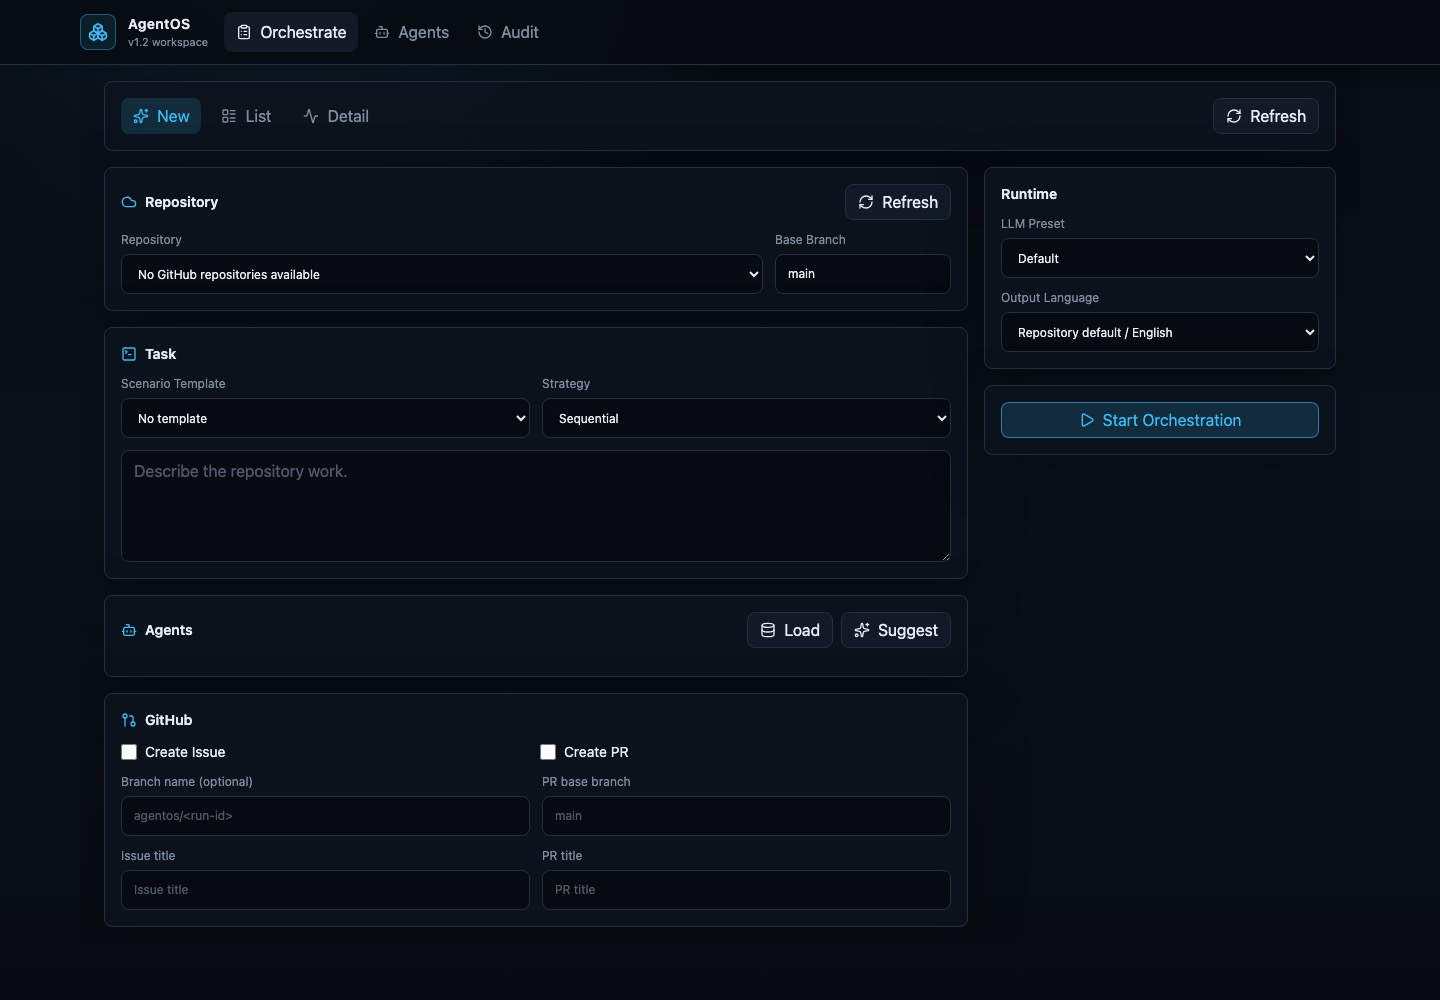
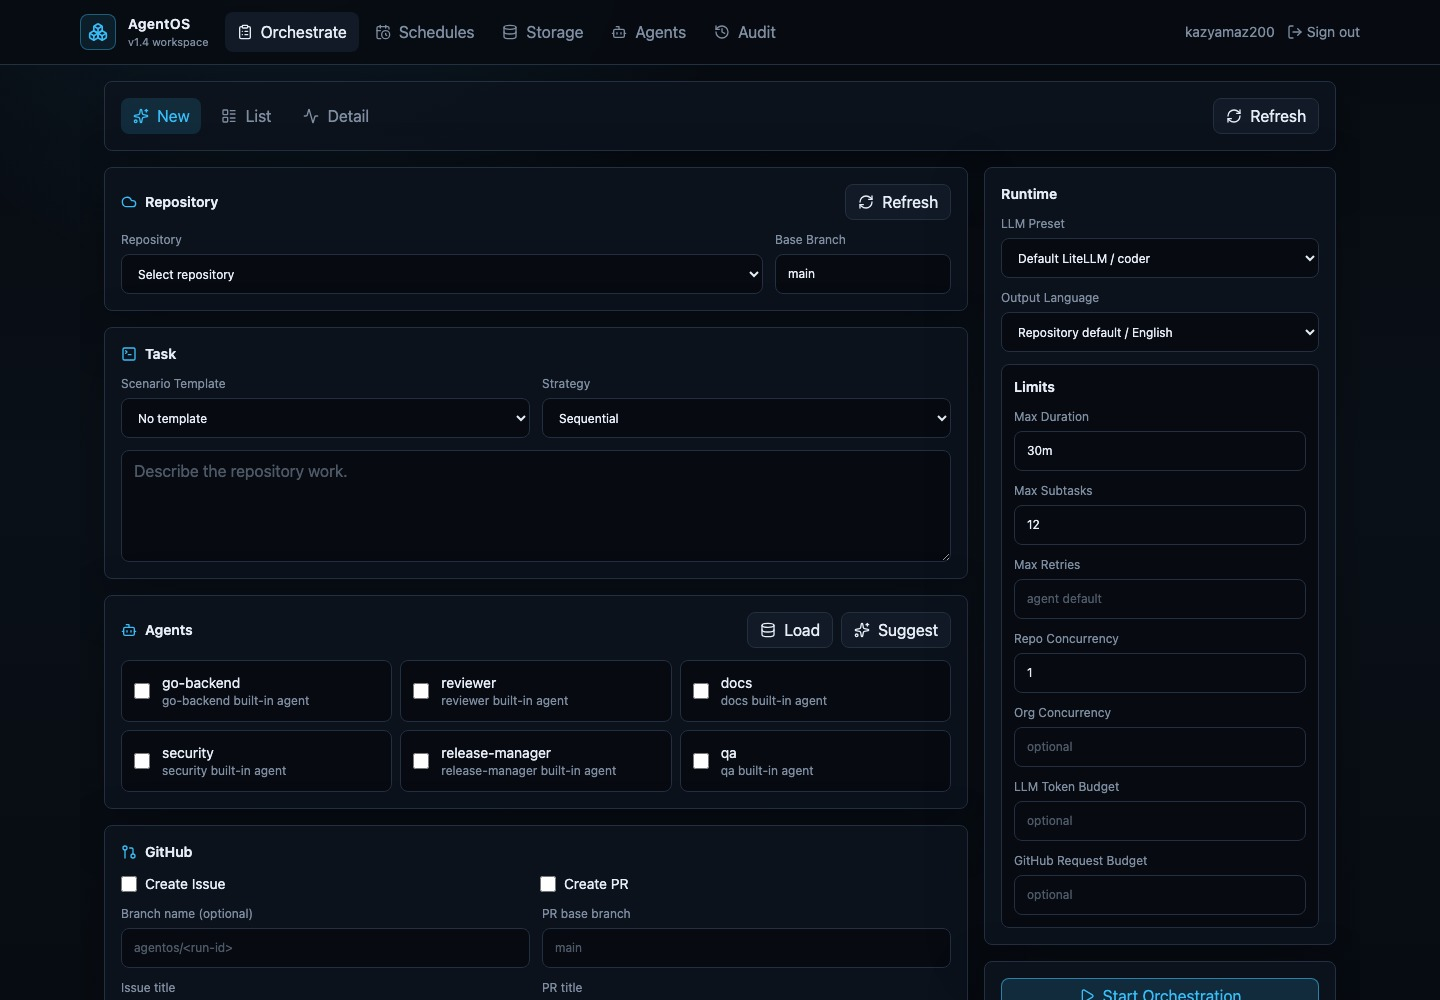
prepare v1.4 release docs (#261)

diff --git a/internal/server/static/index.html b/internal/server/static/index.html
@@ -6,7 +6,7 @@
     <meta name="viewport" content="width=device-width, initial-scale=1.0" />
     <meta name="agentos-sections" content="Orchestrates Agents Audit" />
     <title>AgentOS</title>
-    <script type="module" crossorigin src="/assets/index-Ck_VuC3z.js"></script>
+    <script type="module" crossorigin src="/assets/index-D7oHbpOl.js"></script>
     <link rel="stylesheet" crossorigin href="/assets/index-C2ZE0tnA.css">
   </head>
   <body>

diff --git a/web/src/App.tsx b/web/src/App.tsx
@@ -509,7 +509,7 @@ function App() {
             </div>
             <div className="hidden min-w-0 text-left sm:block">
               <div className="text-sm font-semibold tracking-wide text-ink">AgentOS</div>
-              <div className="text-[11px] text-soft">v1.3 workspace</div>
+              <div className="text-[11px] text-soft">v1.4 workspace</div>
             </div>
           </button>
           <nav className="hidden gap-1 md:flex">

diff --git a/docs/upgrade-v1.4.md b/docs/upgrade-v1.4.md
@@ -1,0 +1,159 @@
+# Upgrade To v1.4
+
+This guide summarizes the v1.4 Governance Scale & Evals release. It covers
+orchestration governance limits, storage retention and cleanup, and the
+orchestration evaluation suite.
+
+## Release Status
+
+v1.4.0 completes the planned Governance Scale & Evals milestone:
+
+- governance execution limits, quotas, and cost controls
+- storage retention, archival, and cleanup policies
+- orchestration regression and scenario evaluation coverage
+
+Operational flow hardening continues in v1.4.x with authenticated Web UI E2E,
+live GitHub and Kubernetes scenarios, schedule-to-notification checks, real LLM
+smoke coverage, LiteLLM preset tuning, and agile scrum simulation.
+
+## Governance Limits
+
+Orchestrations and schedules can carry governance metadata for:
+
+- maximum duration
+- maximum subtasks
+- maximum retries
+- repository concurrency
+- organization concurrency
+- LLM token budget
+- GitHub request budget
+
+The server enforces maximum duration, subtask count, repository concurrency,
+and organization concurrency. Retry, token, and request budgets are recorded in
+metadata for policy visibility and follow-up enforcement work.
+
+## Storage Retention And Cleanup
+
+v1.4 adds storage usage reporting and retention cleanup for persistent
+AgentOS state under `AGENTOS_HOME`.
+
+Cleanup supports dry-run preview and execution. It archives before deletion and
+skips records that are active or linked to GitHub artifacts so operators can
+review the planned cleanup before data is removed.
+
+Production deployments that require authentication return `401` for storage
+APIs without a valid session. This is expected.
+
+## Orchestration Evals
+
+Run the deterministic suite locally or in CI:
+
+```bash
+agentos evals
+```
+
+Generate machine-readable and reviewable reports:
+
+```bash
+agentos evals --format json --output report.json
+agentos evals --format markdown --output report.md
+```
+
+Live smoke checks are opt-in and should only be enabled in environments with
+the required credentials and disposable test targets. See
+[Orchestration Evals](orchestration-evals.md) for environment variables,
+scenario coverage, and report formats.
+
+## Helm Upgrade
+
+The v1.4.0 chart defaults `image.tag` to `v1.4.0`. Upgrade the release while
+keeping existing runtime values:
+
+```bash
+helm --kubeconfig /Users/ssl222/Downloads/kubeconfig/mgmt-k3s.yaml \
+  upgrade --install agentos charts/agentos \
+  -n agentos \
+  --reuse-values \
+  --set image.repository=ghcr.io/kazyamaz200/agentos \
+  --set image.tag=v1.4.0 \
+  --set image.pullPolicy=Always \
+  --server-side=true \
+  --force-conflicts \
+  --wait \
+  --timeout 5m
+```
+
+`--server-side=true --force-conflicts` is useful when a previous emergency
+rollout changed the Deployment image with `kubectl set image`.
+
+## Post-Upgrade Verification
+
+Check the running deployment:
+
+```bash
+kubectl --kubeconfig /Users/ssl222/Downloads/kubeconfig/mgmt-k3s.yaml \
+  -n agentos get deploy agentos -o wide
+
+kubectl --kubeconfig /Users/ssl222/Downloads/kubeconfig/mgmt-k3s.yaml \
+  -n agentos rollout status deploy/agentos --timeout=180s
+```
+
+Check the public service and Web UI assets:
+
+```bash
+curl -fsS https://agentos.nakanoshima.hakobune8.com/api/health
+
+INDEX=$(curl -fsS https://agentos.nakanoshima.hakobune8.com/)
+JS=$(printf '%s\n' "$INDEX" | sed -n 's/.*src="\([^"]*index-[^"]*\.js\)".*/\1/p')
+CSS=$(printf '%s\n' "$INDEX" | sed -n 's/.*href="\([^"]*index-[^"]*\.css\)".*/\1/p')
+
+curl -fsSI "https://agentos.nakanoshima.hakobune8.com$JS"
+curl -fsSI "https://agentos.nakanoshima.hakobune8.com$CSS"
+```
+
+Confirm the built-in agent registry:
+
+```bash
+curl -fsS https://agentos.nakanoshima.hakobune8.com/api/agents \
+  | jq -r '.[].Name' | sort
+```
+
+Expected agents:
+
+```text
+analyst
+ci-fixer
+dependency-updater
+devops
+docker
+docs
+frontend
+go-backend
+helm
+kubernetes
+qa
+release-manager
+reporter
+reviewer
+security
+```
+
+For the v1.4 feature scope, also confirm:
+
+- storage usage is visible in the Web UI for an authenticated session
+- storage cleanup preview responds before cleanup execution is enabled
+- `agentos evals` produces deterministic JSON and Markdown reports
+- unauthenticated storage and schedule APIs return `401` when
+  `auth.required` is enabled
+
+## Final Release Checklist
+
+- Confirm `CHANGELOG.md` v1.4.0 notes include every closed v1.4 milestone
+  issue.
+- Verify README roadmap separates v1.4.0 completed work from v1.4.x hardening.
+- Verify `charts/agentos/Chart.yaml` and `charts/agentos/values.yaml` use the
+  final release version and image tag.
+- Build and deploy the final v1.4.0 image, then run health, Web UI asset,
+  agent registry, storage, and eval checks.
+- Confirm the deployed image tag, chart version, GitHub release tag, and
+  changelog heading all refer to the same final v1.4.0 version.

diff --git a/docs/release-v1.4.0.md b/docs/release-v1.4.0.md
@@ -1,0 +1,77 @@
+# v1.4.0 Release Notes
+
+AgentOS v1.4.0 completes the Governance Scale & Evals milestone.
+
+## Highlights
+
+- Governance limits for orchestration duration, subtask count, retries,
+  repository concurrency, organization concurrency, LLM token budgets, and
+  GitHub request budgets.
+- Storage retention policies with usage reporting, dry-run cleanup,
+  archive-before-delete, cleanup execution reports, and skips for active or
+  GitHub-linked records.
+- Orchestration evaluation suite with deterministic scenario coverage,
+  functional coverage reporting, JSON/Markdown reports, and opt-in live smoke
+  checks.
+- Mobile storage cleanup UX fixes for explicit preview-before-cleanup behavior
+  and non-overlapping bottom navigation labels.
+
+## Upgrade
+
+Use image tag `ghcr.io/kazyamaz200/agentos:v1.4.0` and Helm chart version
+`1.4.0`.
+
+```bash
+helm --kubeconfig /Users/ssl222/Downloads/kubeconfig/mgmt-k3s.yaml \
+  upgrade --install agentos charts/agentos \
+  -n agentos \
+  --reuse-values \
+  --set image.repository=ghcr.io/kazyamaz200/agentos \
+  --set image.tag=v1.4.0 \
+  --set image.pullPolicy=Always \
+  --server-side=true \
+  --force-conflicts \
+  --wait \
+  --timeout 5m
+```
+
+## Verification Checklist
+
+- Deployment rolls out successfully and reports one ready pod.
+- `/api/health` returns `{"status":"ok"}`.
+- Web UI JavaScript and CSS assets return HTTP 200.
+- `/api/agents` returns the 15 built-in agents.
+- Authenticated Web UI storage usage loads.
+- Storage cleanup requires previewed selection before execution.
+- `agentos evals` completes the deterministic suite and writes JSON/Markdown
+  reports.
+- Unauthenticated protected APIs return `401` when production authentication is
+  required.
+
+## Notes
+
+- Live evals remain opt-in because they require credentials and disposable
+  external targets.
+- v1.4.x will deepen real operational scenario coverage, including
+  authenticated Web UI E2E, GitHub issue/PR flow, Kubernetes rollout/rollback,
+  schedule notifications, real LLM smoke, LiteLLM preset tuning, and
+  three-sprint agile scrum simulation.
+
+## Rollback
+
+Roll back to the previous known-good image tag with Helm while preserving
+runtime values:
+
+```bash
+helm --kubeconfig /Users/ssl222/Downloads/kubeconfig/mgmt-k3s.yaml \
+  upgrade --install agentos charts/agentos \
+  -n agentos \
+  --reuse-values \
+  --set image.repository=ghcr.io/kazyamaz200/agentos \
+  --set image.tag=<previous-tag> \
+  --set image.pullPolicy=Always \
+  --server-side=true \
+  --force-conflicts \
+  --wait \
+  --timeout 5m
+```

diff --git a/CHANGELOG.md b/CHANGELOG.md
@@ -2,6 +2,36 @@
 
 ## [Unreleased]
 
+## [v1.4.0] - 2026-07-02
+
+### Added
+- Added orchestration governance controls for maximum duration, subtasks,
+  retries, repository concurrency, organization concurrency, LLM token budgets,
+  and GitHub request budgets, with server-side enforcement for duration,
+  subtask count, and concurrency limits.
+- Added storage retention policies with usage reporting, dry-run cleanup,
+  execution history, archive-before-delete, and safe skips for active or
+  GitHub-linked orchestration records.
+- Added Web UI controls for storage usage, retention policy preview, cleanup
+  execution, and cleanup report review.
+- Added the `agentos evals` orchestration evaluation suite with deterministic
+  scenario coverage, functional coverage reporting, JSON/Markdown reports, and
+  opt-in live smoke checks for environments that provide credentials.
+
+### Fixed
+- Fixed mobile storage cleanup controls so cleanup requires a previewed
+  selection, reflects busy and empty states, and keeps the bottom navigation
+  labels from overlapping on narrow screens.
+
+### Notes
+- Live orchestration evals are intentionally opt-in. The default suite remains
+  secret-free and deterministic for CI.
+- Helm chart `version`, `appVersion`, and default `image.tag` are aligned to
+  `v1.4.0`.
+- v1.4.x follow-up work tracks authenticated Web UI E2E, live GitHub and
+  Kubernetes operational scenarios, schedule-to-notification coverage, real
+  LLM smoke coverage, LiteLLM preset tuning, and agile scrum simulation.
+
 ## [v1.3.0] - 2026-07-01
 
 ### Added

diff --git a/README.md b/README.md
@@ -210,6 +210,7 @@ pr_body.md        # Pull request body draft
 - [Pre-merge Verification](docs/pre-merge-verification.md) — PR image checks with registry and BuildKit
 - [Architecture](docs/architecture.md) — System architecture overview
 - [Configuration](docs/configuration.md) — LiteLLM, Qdrant, Docker, MCP, templates
+- [Upgrade to v1.4](docs/upgrade-v1.4.md) — Governance limits, storage retention, cleanup, and orchestration evals
 - [Upgrade to v1.3](docs/upgrade-v1.3.md) — Scheduled operations, reporting, notifications, and ops agents
 - [Profiles](docs/profiles.md) — Profile YAML schema reference
 - [Agent Definitions](docs/agent-definitions.md) — Versioned Agent YAML format (agentos.io/v1)
@@ -221,6 +222,7 @@ pr_body.md        # Pull request body draft
 - [Memory](docs/memory.md) — Pluggable memory backends (vector, JSON)
 - [Sandbox](docs/sandbox.md) — Execution isolation (local, Docker)
 - [Orchestrator](docs/orchestrator.md) — Multi-agent coordination
+- [Orchestration Evals](docs/orchestration-evals.md) — Deterministic and opt-in live scenario evaluation reports
 - [Embedding](docs/embedding.md) — LLM embedding service
 - [Search](docs/search.md) — Unified search across sources
 - [Guidelines](docs/guidelines.md) — Coding guidelines management
@@ -257,10 +259,26 @@ publish a new immutable chart release.
 
 ## Roadmap
 
-### v1.4 — Governance Scale & Evals
-- [x] Governance execution limits, quotas, and cost controls
-- [x] Storage retention, archival, and cleanup policies
-- [x] Orchestration regression and scenario evaluation suite
+### v1.5+ — Scale, Integrations, and Productization
+- [ ] Broaden operational evaluation matrices across repositories, clusters, and model presets
+- [ ] Promote proven LiteLLM presets and scenario suites into release gates
+- [ ] Continue hardening release automation, deployment safety, and rollback evidence capture
+
+### v1.4.x — Operational Flow Hardening
+- [ ] Authenticated Web UI E2E smoke coverage
+- [ ] Live GitHub issue and pull request workflow scenarios
+- [ ] Live Kubernetes rollout and rollback scenarios
+- [ ] Schedule execution to notification E2E scenarios
+- [ ] Storage cleanup dry-run and execution scenarios against realistic data
+- [ ] Real LLM orchestration smoke scenarios
+- [ ] Recommended LiteLLM preset tuning across common coding, review, reporting, and operations workflows
+- [ ] Three-sprint agile scrum simulation to evaluate planning, backlog refinement, sprint execution, review, and retrospective flows
+
+### v1.4.0 — Governance Scale & Evals
+- [x] Governance execution limits for duration, subtask count, retries, repository concurrency, organization concurrency, LLM token budgets, and GitHub request budgets
+- [x] Storage retention policy, usage reporting, dry-run cleanup, archive-before-delete, cleanup reports, and safe skips for active or GitHub-linked records
+- [x] Orchestration regression and scenario evaluation suite with deterministic coverage, functional coverage reports, JSON/Markdown output, and opt-in live smoke checks
+- [x] Mobile storage cleanup UX for preview-before-cleanup behavior and non-overlapping bottom navigation labels
 
 ### v1.3 — Scheduled Operations & Reporting
 - [x] Built-in Docker, Helm, and Kubernetes operations agents
@@ -270,7 +288,7 @@ publish a new immutable chart release.
 - [x] Built-in maintenance and reporting workflow templates
 - [x] Outcome notifications for scheduled orchestrations
 
-### Previous Release — Agent Expansion & Repository Context
+### v1.2 — Agent Expansion & Repository Context
 - [x] Expanded built-in agent registry for broader repository workflows
 - [x] Convention-aware built-in agent guidance and specialist routing
 - [x] Repository-defined custom agent profiles